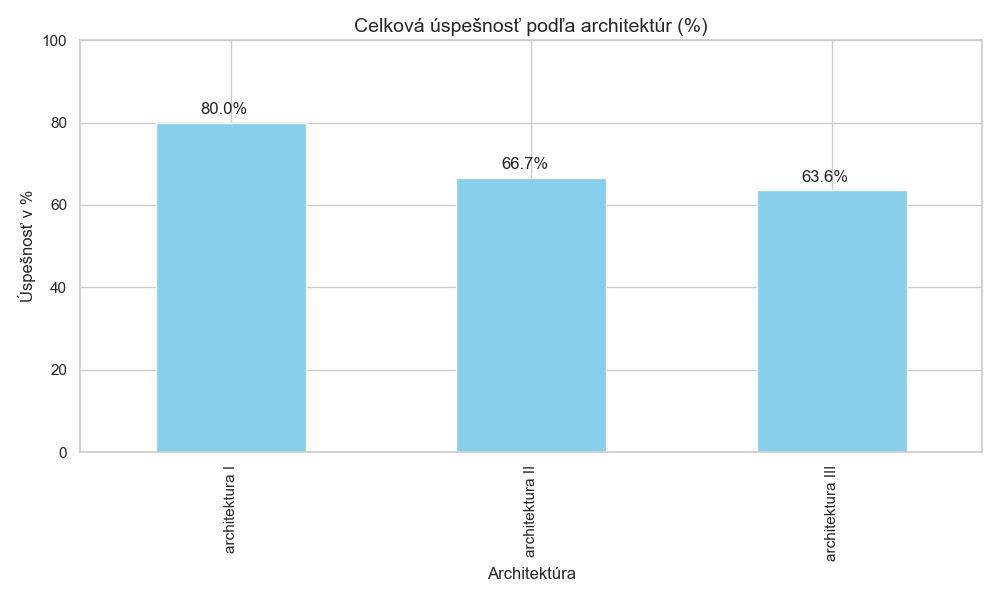
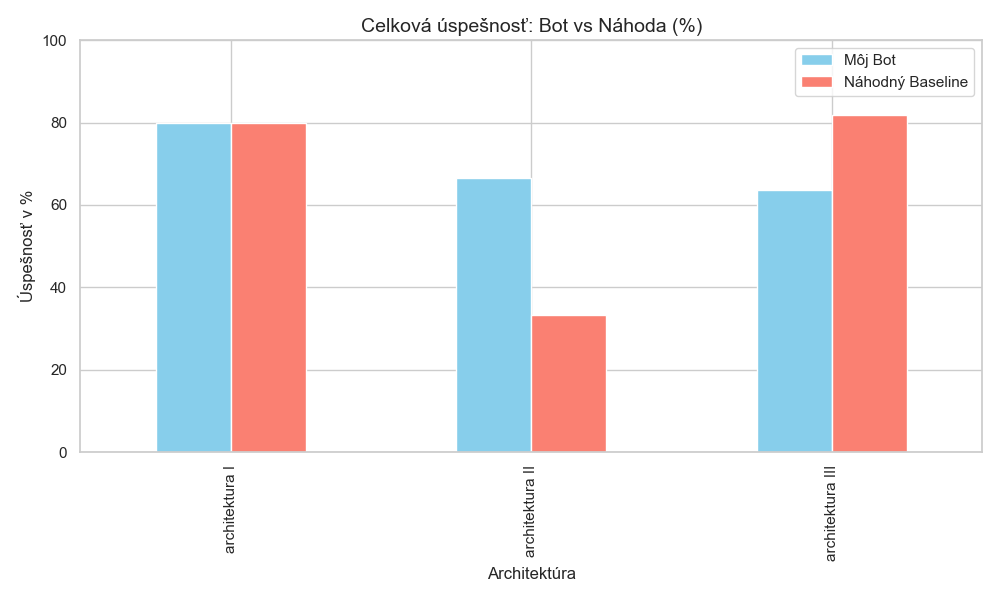
working system with graph analysis and test script

diff --git a/evaluator.py b/evaluator.py
@@ -3,6 +3,7 @@ import numpy as np
 import os
 import matplotlib.pyplot as plt
 import seaborn as sns
+import random
 
 def evaluate_professional_analysis(excel_path):
     if not os.path.exists(excel_path):
@@ -29,62 +30,62 @@ def evaluate_professional_analysis(excel_path):
         if ticker in valid_tickers:
             try:
                 decision = str(row[3]).strip().upper() if pd.notnull(row[3]) else "NAN"
-                change_val = row[20] 
                 
+                # Náhodný baseline (čistá náhoda)
+                random_decision = random.choice(['BUY', 'HOLD', 'SELL'])
+                
+                change_val = row[20] 
                 if isinstance(change_val, str):
                     change_val = float(change_val.replace(',', '.'))
                 
                 if pd.isna(change_val) or decision == "NAN":
                     continue
 
-                status = ""
-                matrix_cat = ""
-                is_success = False
                 THRESHOLD = 0.05 
 
-                # Alpha výnos
+                def get_detailed_stats(dec, change):
+                    status = ""
+                    matrix_cat = ""
+                    is_success = False
+                    
+                    if dec == "BUY" and change > THRESHOLD:
+                        status, matrix_cat, is_success = "🌟 CRITICAL SUCCESS", "True Positive", True
+                    elif dec == "SELL" and change < -THRESHOLD:
+                        status, matrix_cat, is_success = "🌟 CRITICAL SUCCESS", "True Negative (Defense)", True
+                    elif dec == "BUY" and change < -THRESHOLD:
+                        status, matrix_cat, is_success = "❌ CRITICAL FAILURE", "False Positive (Bull Trap)", False
+                    elif (dec == "SELL" or dec == "HOLD") and change > THRESHOLD:
+                        status, matrix_cat, is_success = "❌ CRITICAL FAILURE", "False Negative", False
+                    elif change <= 0 and (dec == "HOLD" or dec == "SELL"):
+                        status, matrix_cat, is_success = "✅ SUCCESS (Defense)", "True Negative (Defense)", True
+                    elif change > 0 and dec == "BUY":
+                        status, matrix_cat, is_success = "✅ SUCCESS (Profit)", "True Positive", True
+                    else:
+                        status, matrix_cat, is_success = "❌ FAILURE", ("False Positive" if dec == "BUY" else "False Negative"), False
+                    
+                    return status, matrix_cat, (1 if is_success else 0)
+
+                # Vyhodnotenie bota
+                status, matrix_cat, score = get_detailed_stats(decision, change_val)
+                
+                # Vyhodnotenie náhody
+                _, _, random_score = get_detailed_stats(random_decision, change_val)
+
+                # Alpha výnos: rozdiel medzi botovým výnosom a trhovou zmenou
                 bot_return = change_val if decision == "BUY" else 0
                 alpha = bot_return - change_val
-
-                # Logika vyhodnotenia
-                if decision == "BUY" and change_val > THRESHOLD:
-                    status = "🌟 CRITICAL SUCCESS"
-                    matrix_cat = "True Positive"
-                    is_success = True
-                elif decision == "SELL" and change_val < -THRESHOLD:
-                    status = "🌟 CRITICAL SUCCESS"
-                    matrix_cat = "True Negative (Defense)"
-                    is_success = True
-                elif decision == "BUY" and change_val < -THRESHOLD:
-                    status = "❌ CRITICAL FAILURE"
-                    matrix_cat = "False Positive (Bull Trap)"
-                    is_success = False
-                elif (decision == "SELL" or decision == "HOLD") and change_val > THRESHOLD:
-                    status = "❌ CRITICAL FAILURE"
-                    matrix_cat = "False Negative"
-                    is_success = False
-                elif change_val <= 0 and (decision == "HOLD" or decision == "SELL"):
-                    status = "✅ SUCCESS (Defense)"
-                    matrix_cat = "True Negative (Defense)"
-                    is_success = True
-                elif change_val > 0 and decision == "BUY":
-                    status = "✅ SUCCESS (Profit)"
-                    matrix_cat = "True Positive"
-                    is_success = True
-                else:
-                    status = "❌ FAILURE"
-                    matrix_cat = "False Positive" if decision == "BUY" else "False Negative"
-                    is_success = False
 
                 results.append({
                     'Architektúra': current_arch,
                     'Ticker': ticker,
                     'Rozhodnutie': decision,
+                    'Random_Rozhodnutie': random_decision,
                     'Zmena_Trh': change_val,
                     'Alpha': alpha,
                     'Verdikt': status,
                     'Matrix_Kategoria': matrix_cat,
-                    'Bodovanie': 1 if is_success else 0
+                    'Bodovanie': score,
+                    'Random_Bodovanie': random_score
                 })
             except:
                 continue
@@ -95,24 +96,20 @@ def generate_charts(df):
     if df.empty: return
     sns.set_theme(style="whitegrid")
     
-    # Graf 1: Úspešnosť architektúr
     plt.figure(figsize=(10, 6))
-    arch_acc = df.groupby('Architektúra')['Bodovanie'].mean() * 100
-    ax = arch_acc.plot(kind='bar', color='skyblue')
-    plt.title('Celková úspešnosť podľa architektúr (%)', fontsize=14)
+    acc = df.groupby('Architektúra')[['Bodovanie', 'Random_Bodovanie']].mean() * 100
+    ax = acc.plot(kind='bar', color=['skyblue', 'salmon'], figsize=(10, 6))
+    plt.title('Celková úspešnosť: Bot vs Náhoda (%)', fontsize=14)
     plt.ylabel('Úspešnosť v %')
     plt.ylim(0, 100)
-    for p in ax.patches:
-        ax.annotate(f'{p.get_height():.1f}%', (p.get_x() + 0.15, p.get_height() + 2))
+    plt.legend(['Môj Bot', 'Náhodný Baseline'])
     plt.tight_layout()
     plt.savefig('graf_uspesnost.png')
     
-    # Graf 2: Alpha výnos (Pridaná hodnota)
     plt.figure(figsize=(10, 6))
     sns.barplot(data=df, x='Ticker', y='Alpha', hue='Architektúra')
     plt.axhline(0, color='black', linewidth=1)
     plt.title('Alpha výnos (Pridaná hodnota bota oproti trhu)', fontsize=14)
-    plt.ylabel('Alpha (0.1 = +10%)')
     plt.tight_layout()
     plt.savefig('graf_alpha.png')
     print("\n📈 Grafy boli uložené: 'graf_uspesnost.png' a 'graf_alpha.png'")
@@ -120,10 +117,11 @@ def generate_charts(df):
 if __name__ == "__main__":
     df_results = evaluate_professional_analysis('Statistics Bachelor.xlsx')
     if not df_results.empty:
-        # Výpis štatistík do konzoly
         print(df_results[['Architektúra', 'Ticker', 'Rozhodnutie', 'Verdikt']].to_string(index=False))
         print(f"\nPriemerná Alpha: {df_results['Alpha'].mean():+.2%}")
         
-        # Generovanie grafov
+        print("\n--- POROVNANIE ÚSPEŠNOSTI S NÁHODOU ---")
+        print(df_results.groupby('Architektúra')[['Bodovanie', 'Random_Bodovanie']].mean())
+        
         generate_charts(df_results)
         df_results.to_csv('finalny_report.csv', index=False, encoding='utf-8-sig')
